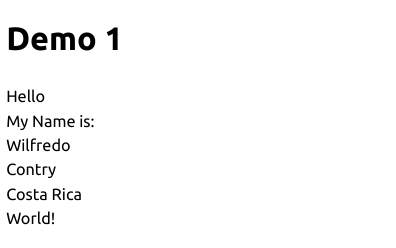
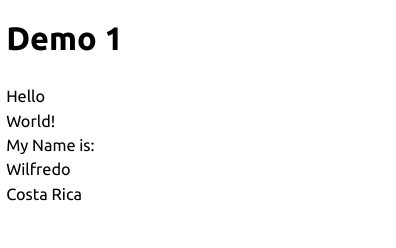
correcion demo 1

Changed region(s): [[0.0, 0.4516, 0.2424, 0.621], [0.0, 0.6492, 0.1818, 0.7339], [0.0, 0.8468, 0.1515, 0.9032]]

diff --git a/demo-1.html b/demo-1.html
@@ -13,14 +13,14 @@
 
         <div id="output"></div>
         <div id="output-2">My Name is: </div>
-        <div id="output-3">Contry</div>
+        <div id="output-3">Country</div>
 
         <py-config>
         </py-config>
 
         <py-script>
             display("Hello", target="output")
-            display("World!")
+            display("World!", append=True,target="output")
             display("Wilfredo", append=True,target="output-2")
             display("Costa Rica", append=False,target="output-3")
         </py-script>

diff --git a/README.md b/README.md
@@ -64,9 +64,9 @@
 
     <py-script>
         display("Hello", target="output")
-        display("World!")
-        display("Wilfredo", append=True,target="output-2")
-        display("Costa Rica", append=False,target="output-3")
+        display("World!", append=True, target="output")
+        display("Wilfredo", append=True, target="output-2")
+        display("Costa Rica", append=False, target="output-3")
     </py-script>
 ```
 
